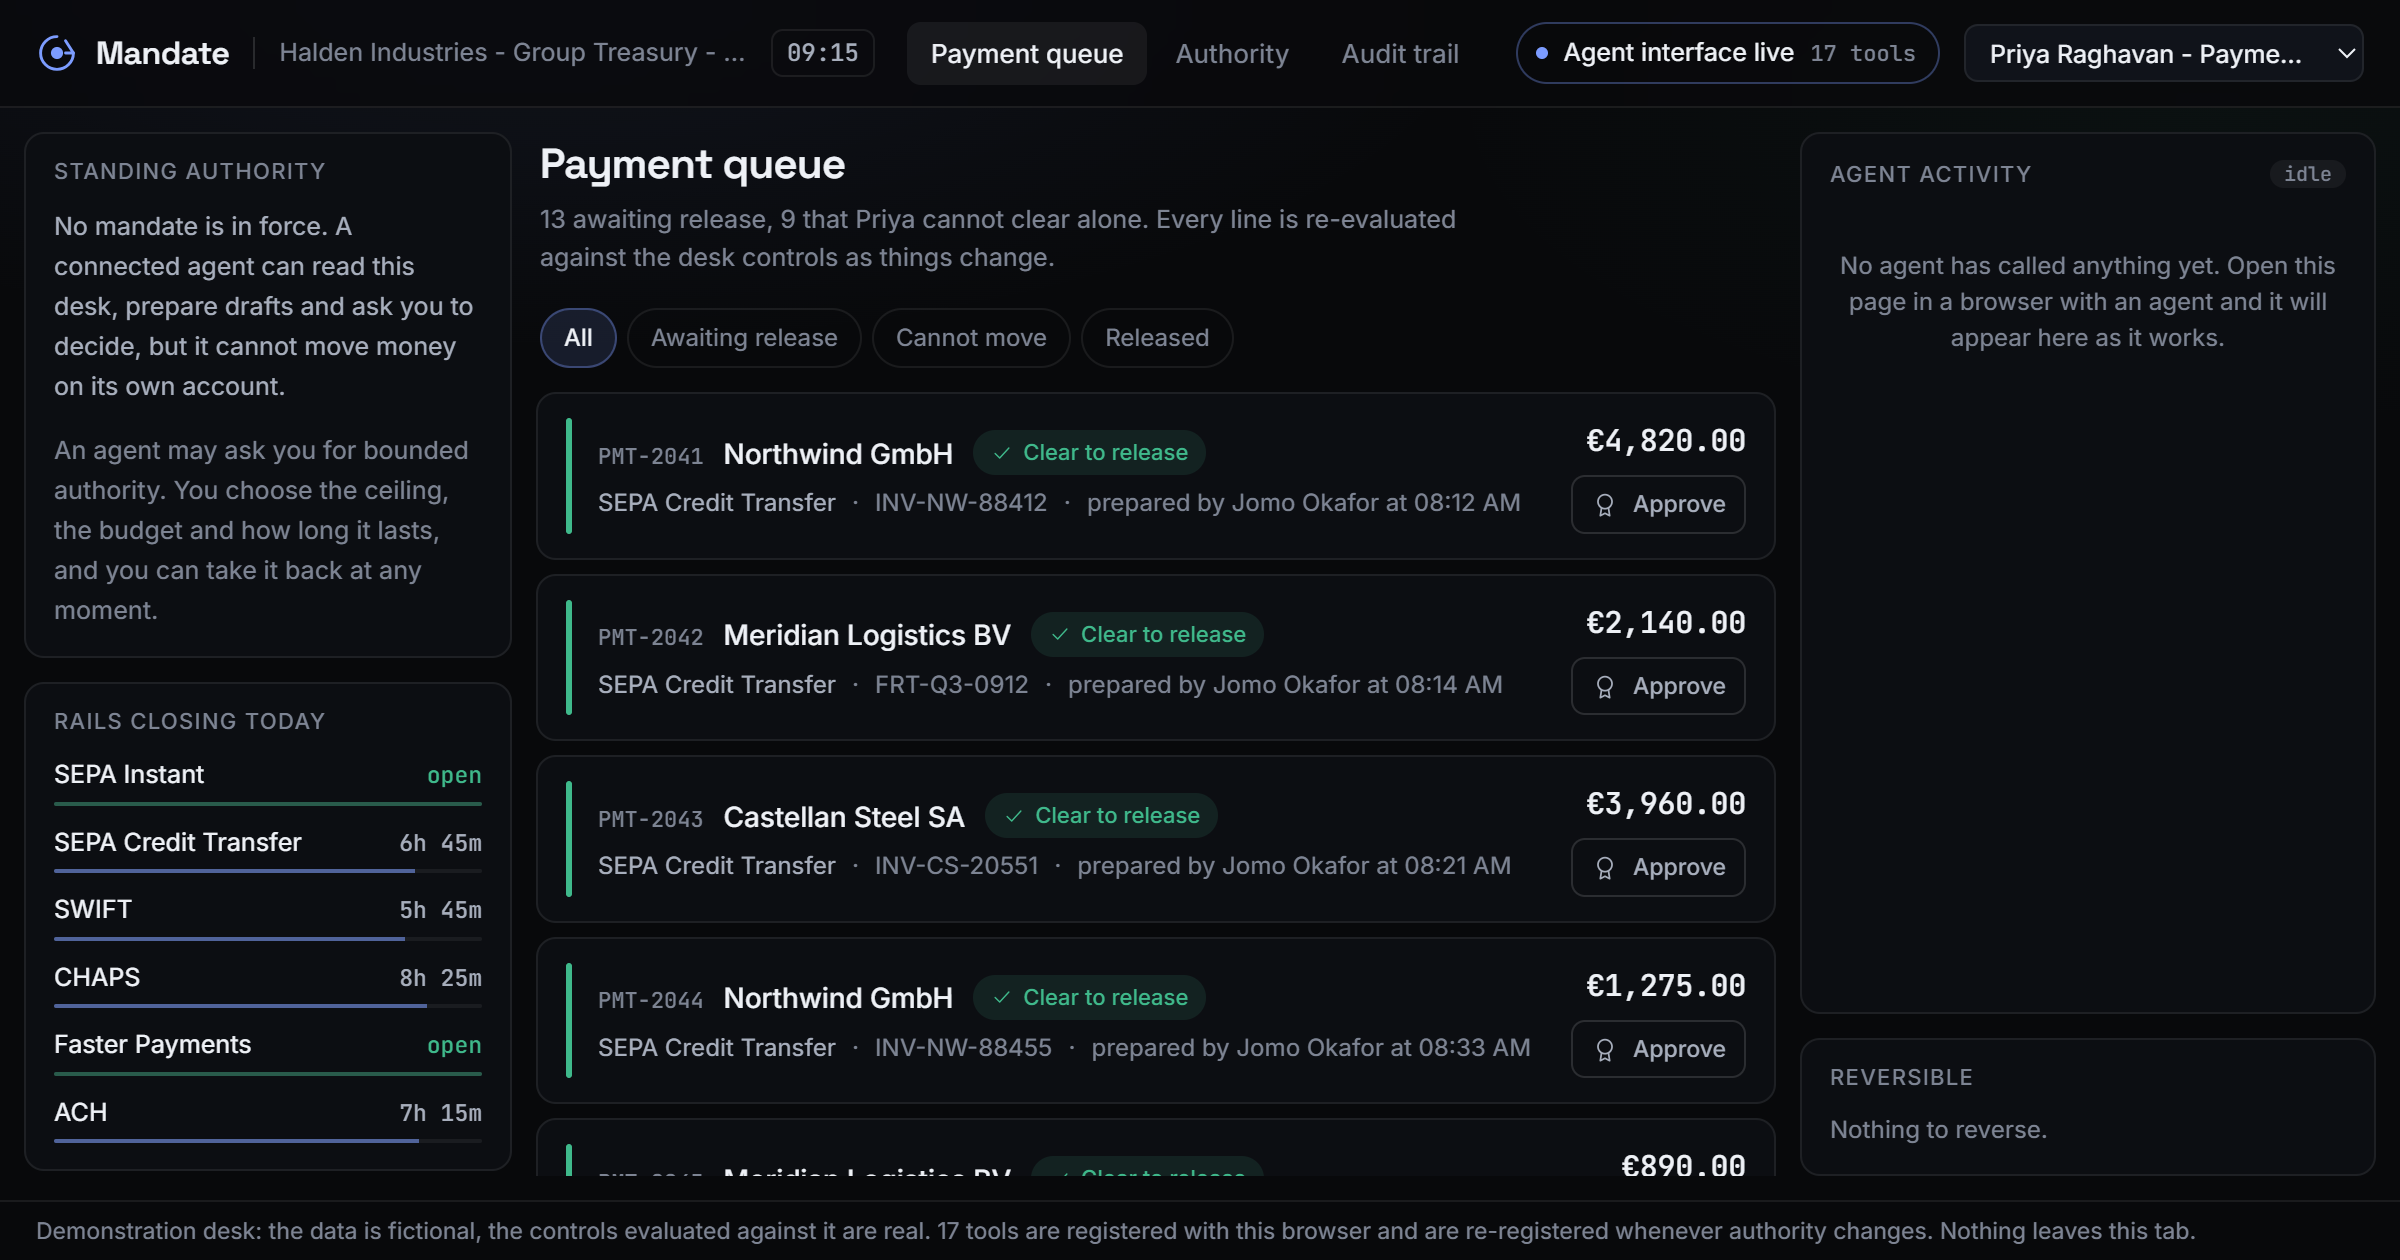
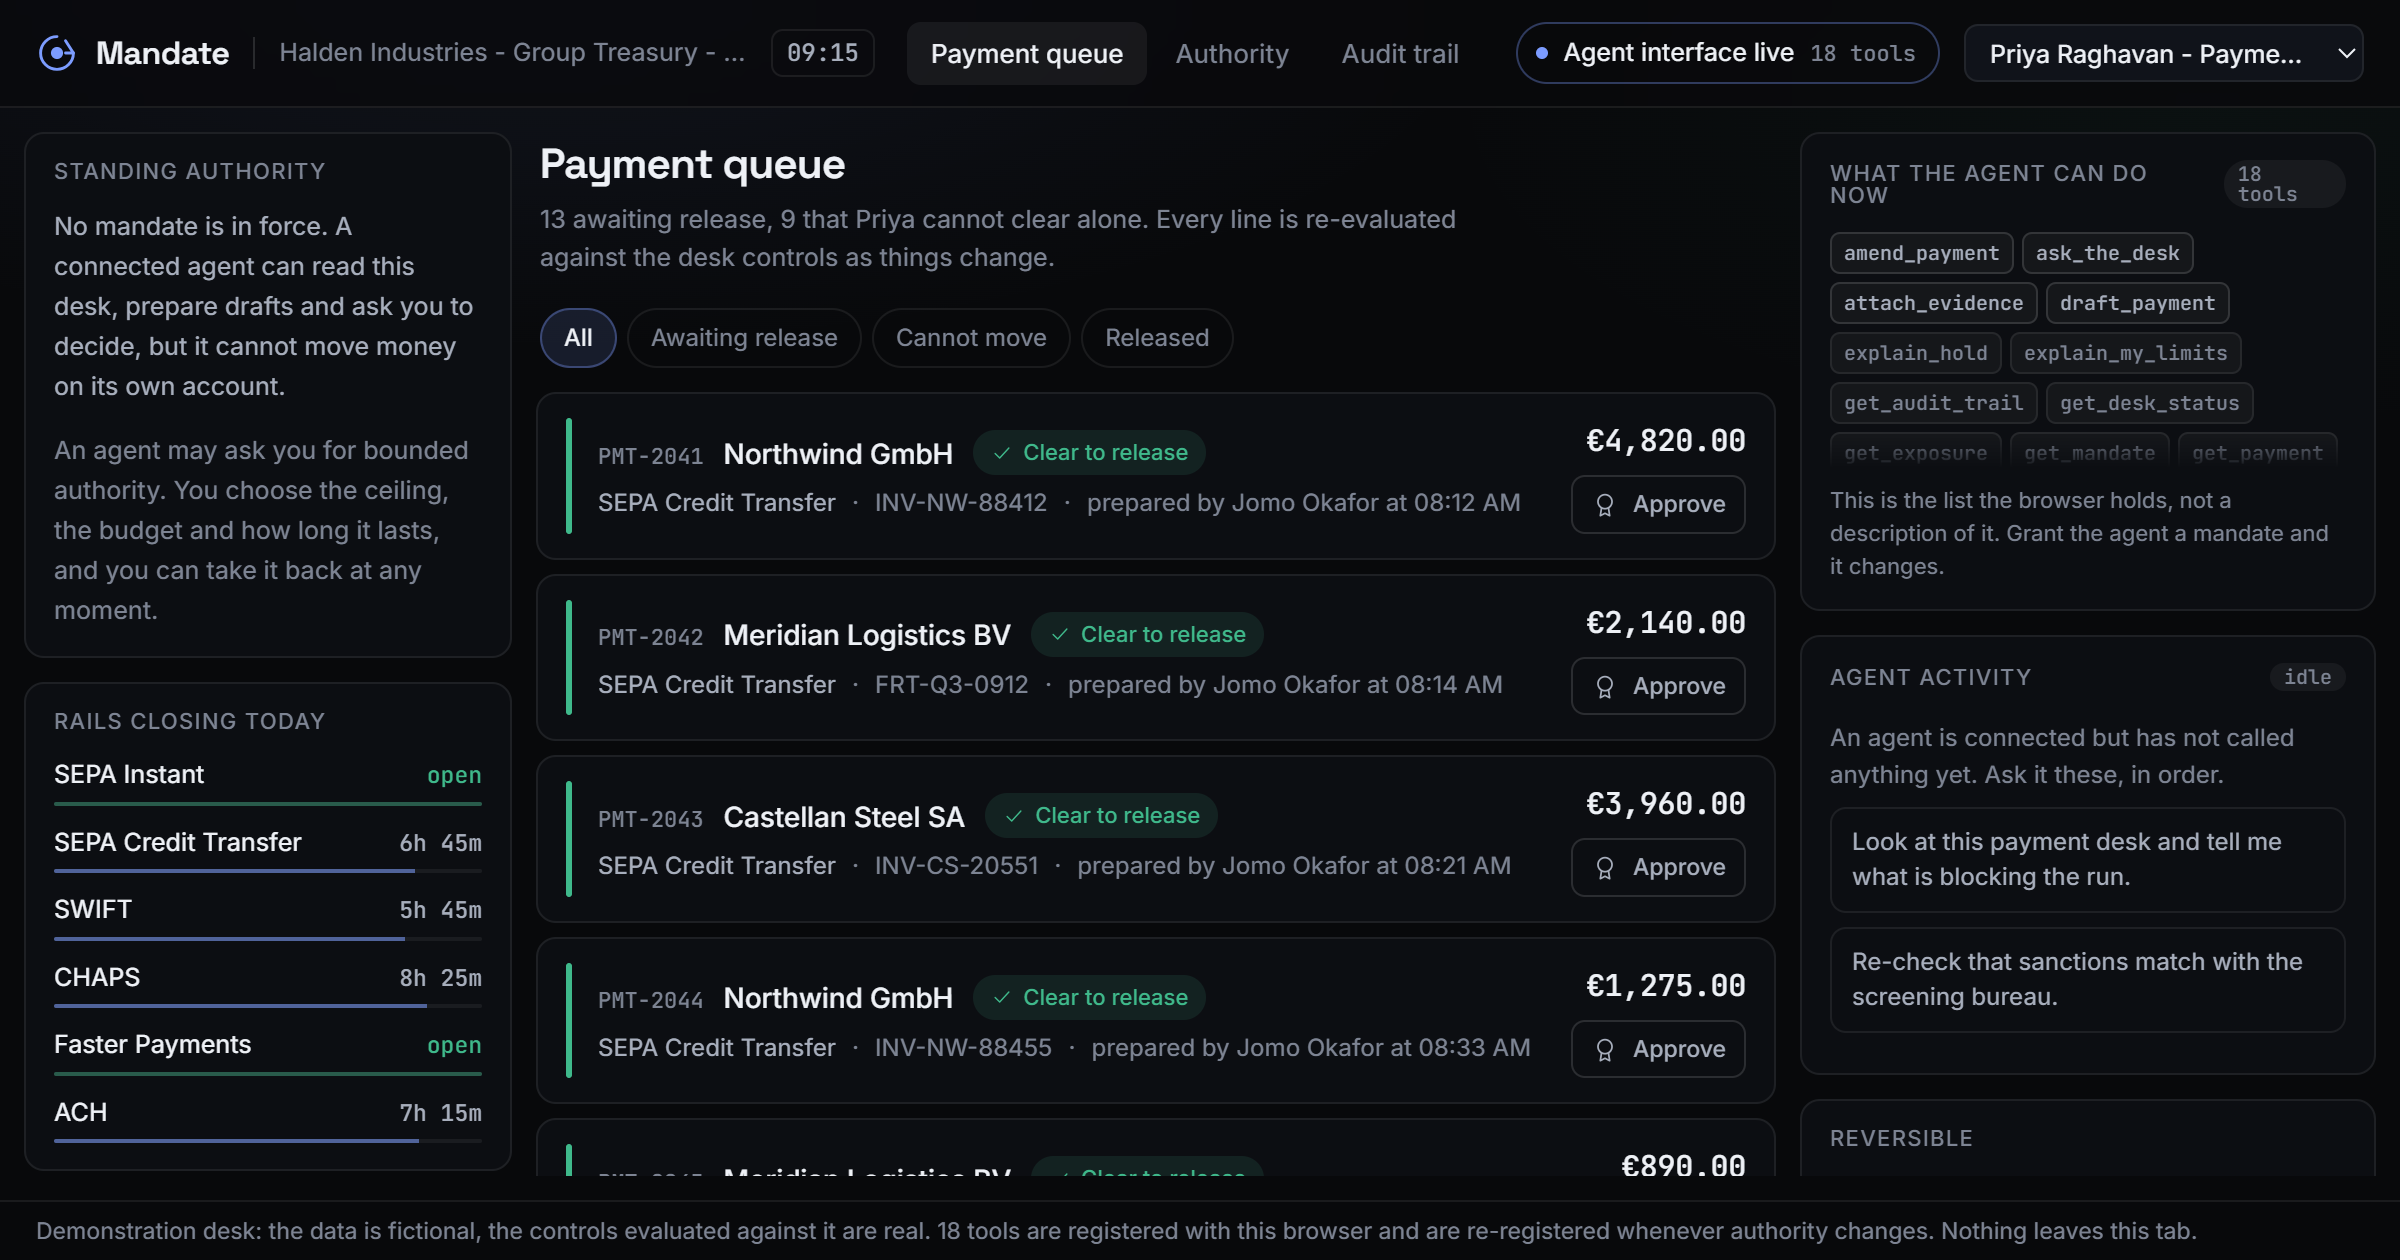
Point the recording at the capability panel, and refresh the social image
The tool surface is on screen permanently now, so the take no longer has to
change tabs at the two moments that matter. Grant and revoke both land in the
same frame as the queue.

diff --git a/src/director.js b/src/director.js
@@ -7,14 +7,14 @@ const BEATS = [
   {
     at: 0, title: 'The desk',
     say: 'This is Mandate. It is a bank payment operations desk, and there is an AI agent connected to this page through <em>WebMCP</em>. Fifteen payments waiting, SEPA closes in six hours. Watch what the agent can do, and more importantly what it cannot.',
-    doThis: 'Have the desk on screen. Point at the queue, the rails counting down, and the "Agent interface live, 18 tools" chip in the header.',
+    doThis: 'Have the desk on screen. Point at the queue, the rails counting down on the left, and then at the panel top right: What the agent can do now, 18 tools.',
     watch: 'Keep this short. Fourteen seconds, then move.',
   },
   {
     at: 14, title: 'It reads the desk',
     say: 'It reads the desk through structured tools rather than guessing at the page, and every answer comes back as a sentence a person can act on, not a status code.',
     prompt: 'Look at this payment desk and tell me what is blocking the run.',
-    watch: 'Agent activity lights up on the right. It should surface the <b>sanctions match on Volkov Trading</b>, the <b>unverified beneficiary</b>, and the <b>payment on a rail that cannot carry its currency</b>.',
+    watch: 'Agent activity fills in on the right, and it prints <b>what the agent was actually told</b>, not just tool names. It should surface the <b>sanctions match on Volkov Trading</b>, the <b>unverified beneficiary</b>, and the <b>payment on a rail that cannot carry its currency</b>.',
     advanceOn: ['explain_hold', 'search_payments', 'get_desk_status'],
   },
   {
@@ -28,14 +28,14 @@ const BEATS = [
     at: 62, title: 'It hits the wall',
     say: 'Here is the part that matters. It cannot. The page refuses, and the refusal is not a four-oh-three, it is coaching: here are the routes forward.',
     prompt: 'Release the five clean SEPA payments.',
-    watch: 'A refusal: <b>segregation of duties</b>, an agent cannot authorise a payment on its own authority. Read the named routes out loud.',
+    watch: 'The refusal appears <b>in amber in Agent activity</b>, in the agent’s own words: segregation of duties, an agent cannot authorise a payment on its own authority. Read it off the screen.',
     advanceOn: ['release_payment'],
   },
   {
     at: 84, title: 'It asks for authority',
     say: 'So it asks me for a mandate. I set the ceiling, the budget, and when it expires. I can tighten any of it before I agree. And the moment I grant it, the page re-registers its tools: a tool that did not exist a second ago now does.',
     prompt: 'Then ask me for the authority you need to clear them.',
-    doThis: 'The mandate card slides up. Tighten the per-payment ceiling, shorten the expiry, then Grant mandate. Switch to the Authority tab and point at release_under_mandate appearing, 18 tools becoming 20.',
+    doThis: 'The mandate card slides up. Change Most per payment from 5000.00 to 2500.00, then Grant mandate. Do NOT change tabs - keep your eyes on the panel top right: release_under_mandate and revoke_mandate appear highlighted at the top of the list, and the count goes 18 to 20.',
     watch: 'The card is <b>editable before you agree</b>. That is the whole argument: the human holds the pen.',
     advanceOn: ['mandate-granted'],
   },
@@ -49,7 +49,7 @@ const BEATS = [
   {
     at: 150, title: 'I take it back',
     say: 'I take the authority back, and the tool disappears from the agent mid-session. Everything it did is on the audit trail in plain English, and every bit of it is reversible. That is the idea. WebMCP lets the page be the authority boundary, so an agent can finally be useful inside a system where getting it wrong moves real money.',
-    doThis: 'Click Revoke now. Show the Authority tab dropping back to 18 tools. Then the Audit trail tab. End on the trail.',
+    doThis: 'Click Revoke now in the Standing authority panel. The two highlighted tools vanish from the panel top right and the count drops back to 18, on screen, without changing tabs. Then open the Audit trail tab and end there.',
     watch: 'Close on the audit trail. Do not rush this line.',
     advanceOn: ['mandate-revoked'],
   },
